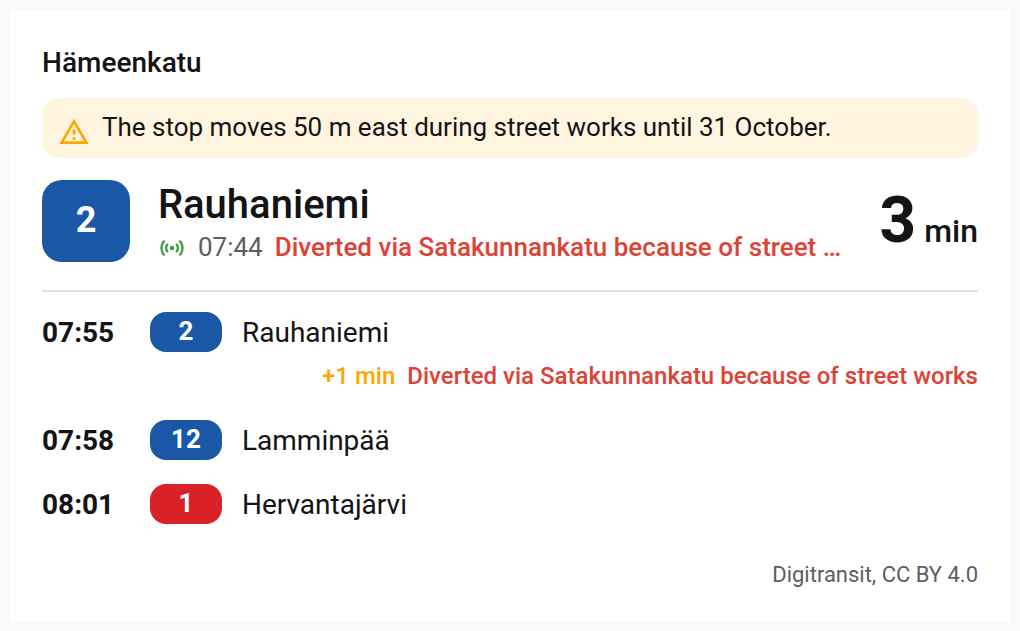
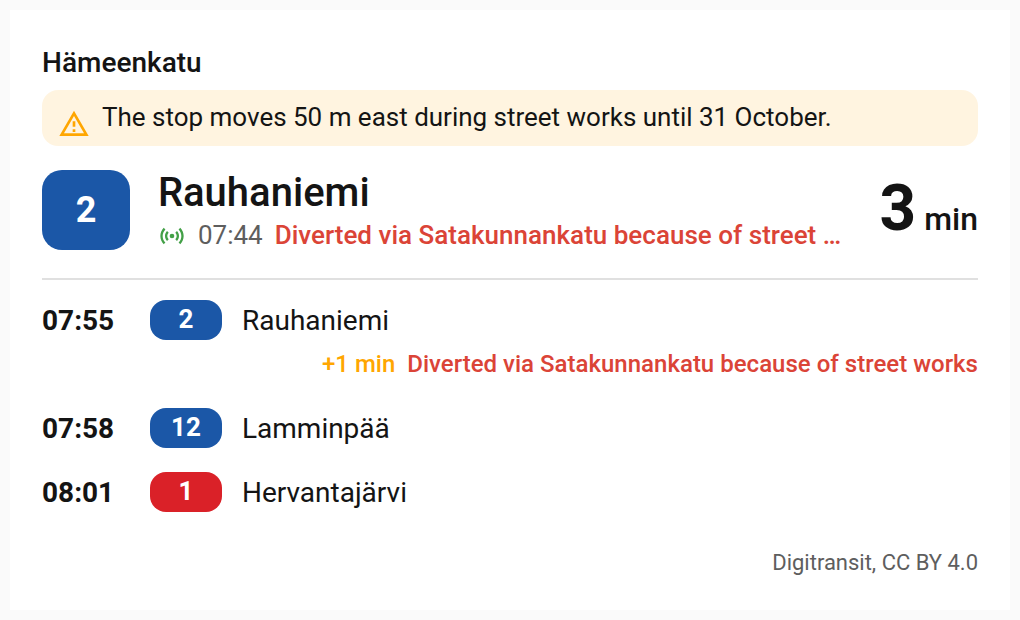
Cut a stop's notices to one line with the full text as a tooltip, unless full_texts is on
Each stop notice now takes 32 px with its margin, half a row of a sections view, so a
notice no longer pushes a card held to its rows into scrolling. The full_texts helper
text covers every notice.

diff --git a/dist/departures-card.js b/dist/departures-card.js
@@ -935,7 +935,7 @@ var en_default = {
     show_notices: "Show notices",
     show_notices_helper: "Track works and other notices for the whole stop, under its name",
     full_texts: "Show texts in full",
-    full_texts_helper: "The subtitle and the notices of later departures wrap instead of being cut short",
+    full_texts_helper: "The subtitle and the notices wrap instead of being cut short",
     combine: "Show as one list",
     combine_helper: "Every stop's departures and arrivals in one list in time order",
     height_mode: "Height",
@@ -994,7 +994,7 @@ var fi_default = {
     show_notices: "N\xE4yt\xE4 tiedotteet",
     show_notices_helper: "Rataty\xF6t ja muut koko pys\xE4kki\xE4 koskevat tiedotteet sen nimen alla",
     full_texts: "N\xE4yt\xE4 tekstit kokonaan",
-    full_texts_helper: "Alaotsikko ja my\xF6hempien l\xE4ht\xF6jen tiedotteet rivitet\xE4\xE4n lyhent\xE4misen sijaan",
+    full_texts_helper: "Alaotsikko ja tiedotteet rivitet\xE4\xE4n lyhent\xE4misen sijaan",
     combine: "N\xE4yt\xE4 yhten\xE4 listana",
     combine_helper: "Kaikkien pys\xE4kkien l\xE4hd\xF6t ja saapumiset yhdess\xE4 listassa aikaj\xE4rjestyksess\xE4",
     height_mode: "Korkeus",
@@ -1527,7 +1527,9 @@ var DeparturesCard = class extends i4 {
             <section>
                 ${heading}
                 ${notices.map(
-      (notice) => b2`<div class="stop-notice"><ha-icon icon="mdi:alert-outline"></ha-icon><span>${notice}</span></div>`
+      (notice) => b2`<div class="stop-notice" title="${notice}">
+                            <ha-icon icon="mdi:alert-outline"></ha-icon><span>${notice}</span>
+                        </div>`
     )}
                 ${next ? this.next(next) : A}
                 ${rest.length ? b2`<div
@@ -2025,18 +2027,31 @@ var DeparturesCard = class extends i4 {
                     font-size: 13px;
                 }
 
-                /* A notice for the whole stop, such as track works, stays readable in full: cut short it says nothing. */
+                /* A notice for the whole stop, such as track works, takes one line, 32 px with its margin, cut short unless
+                   full_texts asks for it whole. Its tooltip has it in full. */
                 .stop-notice {
                     display: flex;
                     align-items: flex-start;
                     gap: 6px;
-                    margin-top: 8px;
-                    padding: 6px 8px;
+                    margin-top: 4px;
+                    padding: 4px 8px;
                     border-radius: 8px;
                     font-size: 13px;
-                    line-height: 1.35;
+                    line-height: 20px;
                     color: var(--primary-text-color);
                     background: rgba(var(--rgb-warning-color, 255, 166, 0), 0.12);
+                }
+
+                .stop-notice span {
+                    min-width: 0;
+                    white-space: nowrap;
+                    overflow: hidden;
+                    text-overflow: ellipsis;
+                }
+
+                .full .stop-notice span {
+                    white-space: normal;
+                    overflow-wrap: anywhere;
                 }
 
                 .stop-notice ha-icon {
@@ -2044,7 +2059,7 @@ var DeparturesCard = class extends i4 {
                     flex: none;
                     width: 16px;
                     height: 16px;
-                    margin-top: 1px;
+                    margin-top: 2px;
                     color: var(--warning-color, #b45309);
                 }
 

diff --git a/src/departures-card.ts b/src/departures-card.ts
@@ -345,7 +345,10 @@ export class DeparturesCard extends LitElement {
             <section>
                 ${heading}
                 ${notices.map(
-                    (notice) => html`<div class="stop-notice"><ha-icon icon="mdi:alert-outline"></ha-icon><span>${notice}</span></div>`,
+                    (notice) =>
+                        html`<div class="stop-notice" title="${notice}">
+                            <ha-icon icon="mdi:alert-outline"></ha-icon><span>${notice}</span>
+                        </div>`,
                 )}
                 ${next ? this.next(next) : nothing}
                 ${
@@ -872,18 +875,31 @@ export class DeparturesCard extends LitElement {
                     font-size: 13px;
                 }
 
-                /* A notice for the whole stop, such as track works, stays readable in full: cut short it says nothing. */
+                /* A notice for the whole stop, such as track works, takes one line, 32 px with its margin, cut short unless
+                   full_texts asks for it whole. Its tooltip has it in full. */
                 .stop-notice {
                     display: flex;
                     align-items: flex-start;
                     gap: 6px;
-                    margin-top: 8px;
-                    padding: 6px 8px;
+                    margin-top: 4px;
+                    padding: 4px 8px;
                     border-radius: 8px;
                     font-size: 13px;
-                    line-height: 1.35;
+                    line-height: 20px;
                     color: var(--primary-text-color);
                     background: rgba(var(--rgb-warning-color, 255, 166, 0), 0.12);
+                }
+
+                .stop-notice span {
+                    min-width: 0;
+                    white-space: nowrap;
+                    overflow: hidden;
+                    text-overflow: ellipsis;
+                }
+
+                .full .stop-notice span {
+                    white-space: normal;
+                    overflow-wrap: anywhere;
                 }
 
                 .stop-notice ha-icon {
@@ -891,7 +907,7 @@ export class DeparturesCard extends LitElement {
                     flex: none;
                     width: 16px;
                     height: 16px;
-                    margin-top: 1px;
+                    margin-top: 2px;
                     color: var(--warning-color, #b45309);
                 }
 

diff --git a/README.md b/README.md
@@ -61,7 +61,7 @@ you make one, give its repository the topic too. A template entity can write the
 | `departures`     | number  | How many departures not cancelled each stop shows, or the whole list with `combine`, the large one included, with the cancelled ones among them and up to two arrivals that are over                                                                   | `4`                                                                             |
 | `show_cancelled` | boolean | Show cancelled departures, struck through with the reason                                                                                                                                                                                              | `true`                                                                          |
 | `show_notices`   | boolean | Show the stop's notices, such as track works, under its name                                                                                                                                                                                           | `true`                                                                          |
-| `full_texts`     | boolean | Wrap the subtitle and the departures' own notices instead of cutting them short                                                                                                                                                                        | `false`                                                                         |
+| `full_texts`     | boolean | Wrap the subtitle and the notices instead of cutting them short                                                                                                                                                                                        | `false`                                                                         |
 | `combine`        | boolean | Show every stop's departures and arrivals as one list by time, not a section each                                                                                                                                                                      | `false`                                                                         |
 | `height_mode`    | string  | How tall the card is. `auto` fits its content, `fixed` keeps it at `height`, `max` lets it grow up to `max_height`. In `fixed` and `max` the later departures scroll. A height in grid rows, set in the layout tab of a sections view, is used instead | `fixed` when `height` is set, `max` when only `max_height` is, otherwise `auto` |
 | `height`         | number  | The card's height in pixels, for `fixed`                                                                                                                                                                                                               |                                                                                 |
@@ -100,7 +100,8 @@ Everything can be set in the card's visual editor.
   origin, a plane's takeoff or landing and a train's exit or entry door. In one list of both directions (`combine`),
   every plane and train has it, so the departures and arrivals can be told apart.
 - **Notices:** a notice about the departure itself, such as "Passengers are directed to train S 106", at the end of its
-  line, and the stop's own notices, such as track works with buses replacing trains, shown in full under its name.
+  line, and the stop's own notices, such as track works with buses replacing trains, each on a line of its own under its
+  name. A notice cut short shows in full when the mouse is over it.
 
 <img src="https://raw.githubusercontent.com/jesmak/departures-card/main/docs/images/stop-with-notices-light.png#gh-light-mode-only" width="510" alt="A bus stop with its own notice under its name, the next departure large with a line notice at the end of its line, and the rows below with the same notice under the departure it concerns">
 <img src="https://raw.githubusercontent.com/jesmak/departures-card/main/docs/images/stop-with-notices-dark.png#gh-dark-mode-only" width="510" alt="A bus stop with its own notice under its name, the next departure large with a line notice at the end of its line, and the rows below with the same notice under the departure it concerns">
@@ -122,12 +123,12 @@ are never cut. A later departure stays on one line while its destination has roo
 platform to the next line when it hasn't. On a narrow card the large departure's destination goes under its badge and
 countdown.
 
-The subtitle and the departures' own notices are cut short to keep the card compact, so the next departure always
-takes two lines. Set `full_texts: true` to show them in full.
+The subtitle and the notices are cut short to keep the card compact, so the next departure always takes two lines and
+each of the stop's notices one. Set `full_texts: true` to show them in full.
 
 The card's parts are sized to fill whole rows of a sections view. A stop with four departures takes four rows, and two
-more departures take one more row, so an even number of departures, or an odd one with a title, leaves no empty space
-at the bottom.
+more departures take one more row, so an even number of departures leaves no empty space at the bottom. A title or a
+stop's notice takes half a row, as does each departure.
 
 <img src="https://raw.githubusercontent.com/jesmak/departures-card/main/docs/images/narrow-light.png#gh-light-mode-only" width="250" alt="A bus stop on a card half a section wide, the destination under the line and countdown, and the delays and platforms of later departures on lines of their own">
 <img src="https://raw.githubusercontent.com/jesmak/departures-card/main/docs/images/narrow-dark.png#gh-dark-mode-only" width="250" alt="A bus stop on a card half a section wide, the destination under the line and countdown, and the delays and platforms of later departures on lines of their own">
